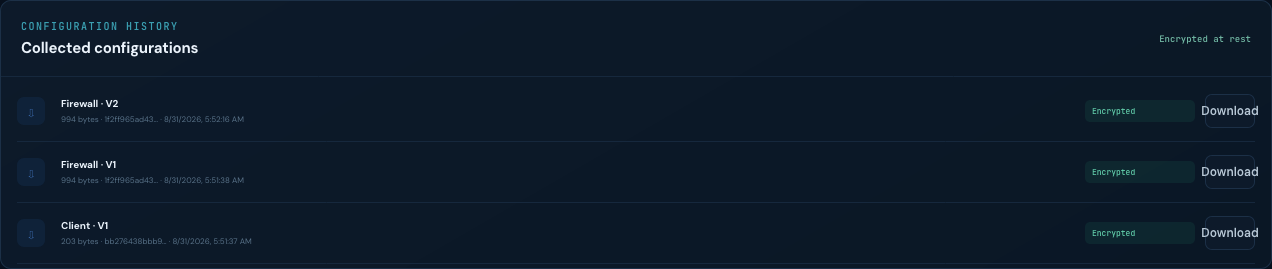
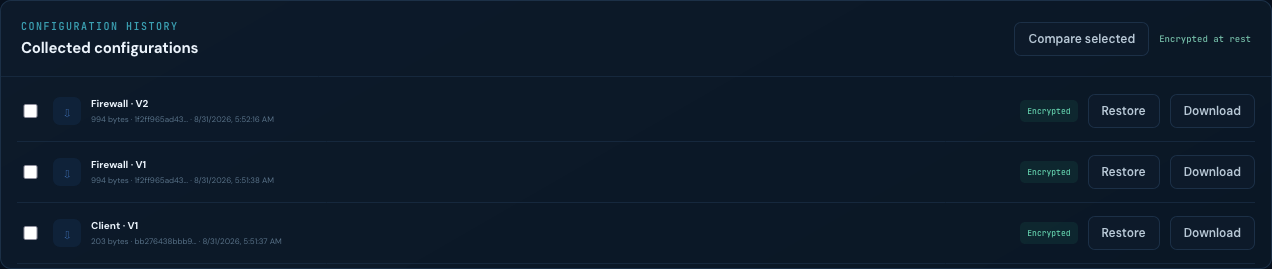
docs: add Firefox configuration recovery captures

diff --git a/IMPLEMENTATION_STATUS.md b/IMPLEMENTATION_STATUS.md
@@ -31,7 +31,8 @@
 - Explicit GUI-only operator contract: topology Backup/Restore is labeled as a product-native bundle workflow, while Containerlab/Kubernetes YAML remains internal to the validated runtime adapter.
 - Bounded per-device appliance and Clabernetes launcher log inspection through audited worker jobs, with operator authorization, selectable 20-1000 line limits, 100 KB output caps, no-store polling, refresh, and copy controls.
 - Server-validated lab backup restore preview with bundle checksum, topology/configuration/template/image inventory, deployability issues, explicit impact confirmation, stale-draft protection, idempotent replay, immutable/running revision preservation, and audit events.
-- A 27-screen, read-only Firefox training capture catalog covering projects, labs, visual topology design, verified backup/restore, images, deployment/device lifecycle, safe redeploy preview, runtime logs, link controls, diagnostics, packet capture, console, configuration history, templates, jobs, security, and API discovery.
+- Audited configuration-version comparison and safe restore with same-device validation, bounded no-store unified diffs, explicit impact preview, stale-draft protection, idempotent replay, newly encrypted draft configuration versions, and immutable/running revision preservation.
+- A 29-screen, read-only Firefox training capture catalog covering projects, labs, visual topology design, verified backup/restore, images, deployment/device lifecycle, safe redeploy preview, runtime logs, link controls, diagnostics, packet capture, console, configuration history/compare/restore, templates, jobs, security, and API discovery.
 
 ## Acceptance results
 
@@ -74,8 +75,9 @@
 | 35 | Safe whole-lab redeploy | PASS | Firefox verified the read-only impact preview; an authenticated audited redeploy recreated a stopped two-device/one-link Alpine runtime from pinned revision 1, reached 2/2 ready and `running`, and a final stop restored its original stopped state. |
 | 36 | Device and launcher logs | PASS | Authenticated worker jobs collected 2,682 bytes of live FRR appliance startup output and 11,799 bytes of Clabernetes launcher output for the same router; both completed successfully through bounded, audited, no-store GUI contracts. |
 | 37 | Restored topology runtime | PASS | The independently restored two-router BGP backup reached 2/2 ready after audited node-local image repair; product diagnostics passed 3/3 with 0% loss in both directions, the test runtime was stopped, and the displaced capacity runtime was returned to running. |
+| 38 | Configuration compare and safe restore | PASS | Firewall collected versions 1 and 2 were compared through the authenticated no-store API; version 2 then produced editable revision 2 under idempotency and draft-concurrency protection while the original immutable deployment remained running with 3/3 devices ready and an unchanged revision. |
 
-Automated tests: **100 passed**. Django checks and migration drift checks: **pass**. React TypeScript/Vite production build: **pass**. Firefox training capture: **27 live screens passed**. Helm lint/render: **pass**. Native runtime ping: **3 transmitted, 3 received, 0% loss, 0.445 ms average RTT**. Bidirectional 120 ms link condition: **240.563 ms average RTT**. Disabled link: **100% loss**. Restored qdiscs: **native `noqueue` on both endpoints**.
+Automated tests: **101 passed**. Django checks and migration drift checks: **pass**. React TypeScript/Vite production build: **pass**. Firefox training capture: **29 live screens passed**. Helm lint/render: **pass**. Native runtime ping: **3 transmitted, 3 received, 0% loss, 0.445 ms average RTT**. Bidirectional 120 ms link condition: **240.563 ms average RTT**. Disabled link: **100% loss**. Restored qdiscs: **native `noqueue` on both endpoints**.
 
 ## Known limitations
 

diff --git a/training/GALLERY.md b/training/GALLERY.md
@@ -163,3 +163,15 @@ The operator opens the device inspector from a live device, switches between app
 ![Backup restore preview](27-backup-restore-preview.png)
 
 After selecting a product-native backup, the server validates its format, checksum, templates, images, interfaces, and deployability without changing the lab. The operator reviews device, link, configuration, image, draft, published-revision, and active-deployment impact before explicitly confirming restore.
+
+## 28 — Configuration version comparison
+
+![Configuration comparison](28-configuration-compare.png)
+
+The operator selects two encrypted, immutable versions collected from the same device and opens an audited, no-store unified comparison. Identical versions are reported explicitly; changed versions show a bounded 256 KiB diff without placing configuration content in job or audit metadata.
+
+## 29 — Safe configuration restore preview
+
+![Configuration restore preview](29-configuration-restore-preview.png)
+
+Before restoring a collected configuration, the operator reviews the device, version, checksum, source revision, and impact. Confirmation creates a new editable draft pinned to the selected content while the running deployment, immutable revision, and collected history remain unchanged until the operator explicitly deploys the draft.
